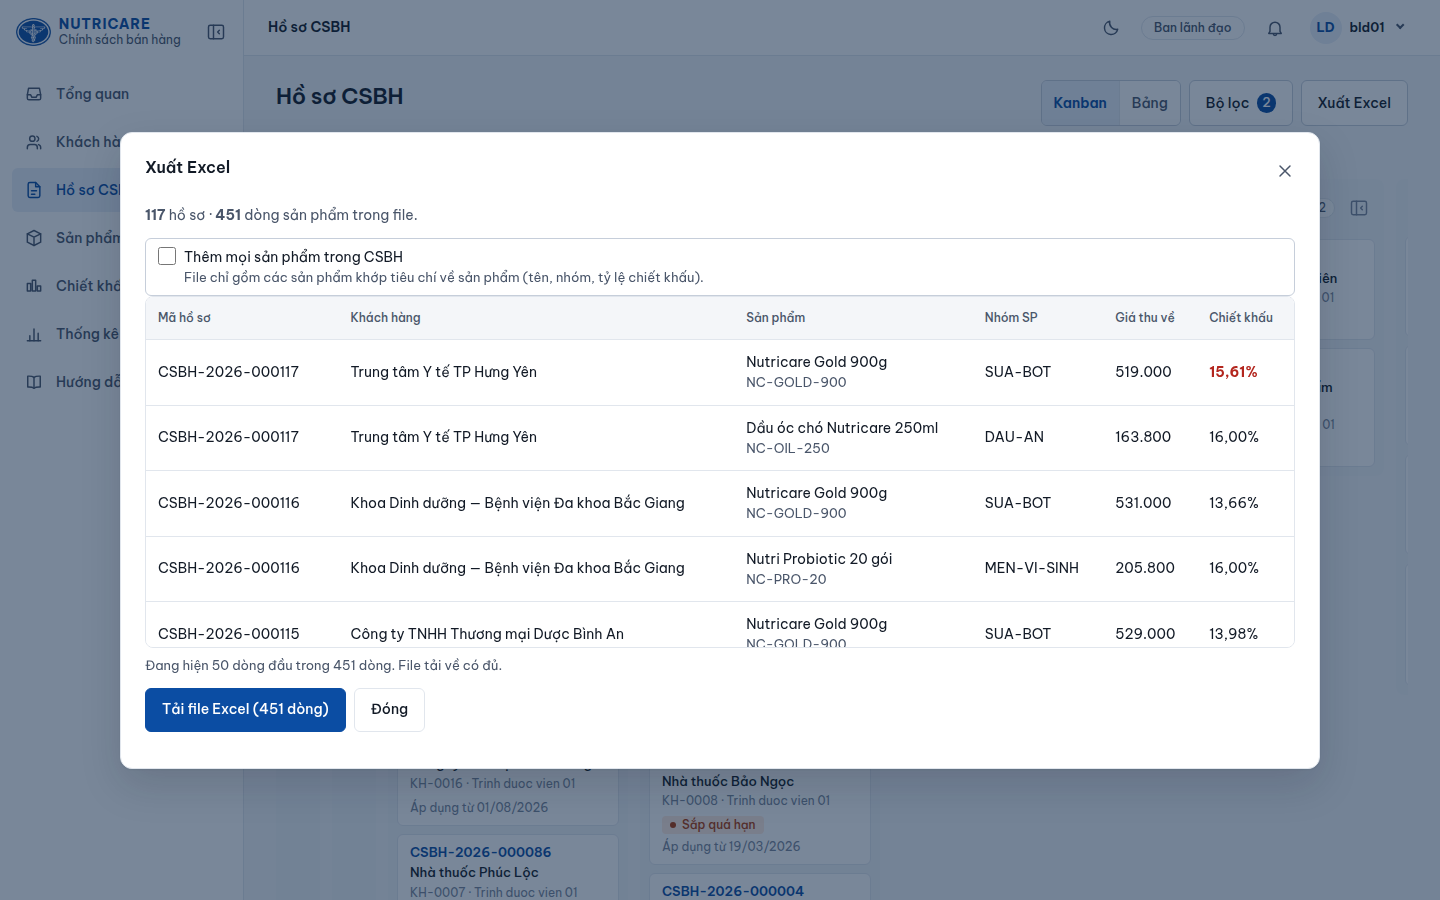
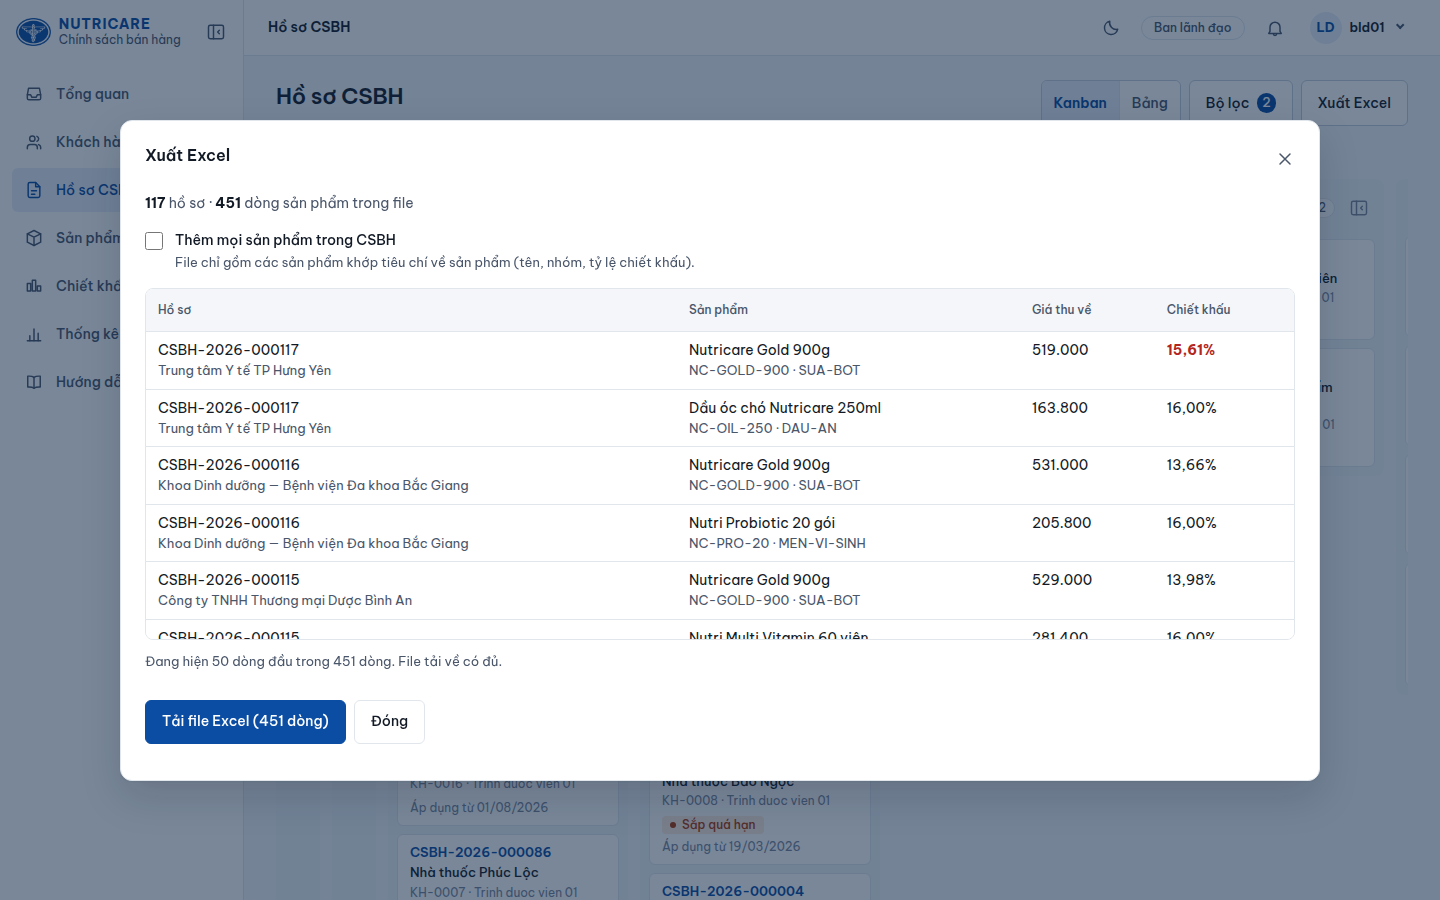
P326: soi lai hop xem truoc Excel theo skill thiet ke frontend (0285)

diff --git a/impl/apps/web/src/components/NutXuatExcel.tsx b/impl/apps/web/src/components/NutXuatExcel.tsx
@@ -195,79 +195,90 @@ function HopXemTruocXuat({
       {loiXem === null && xem === null && <DangTai nhan="Đang dựng bản xem trước…" />}
 
       {xem !== null && (
-        <>
-          <p className="mo-ta-trang" aria-live="polite">
-            <strong>{xem.soHoSo}</strong> hồ sơ · <strong>{xem.soDong}</strong> dòng sản phẩm trong file.
+        <div className="xuat-than">
+          <p className="xuat-tong" aria-live="polite">
+            <strong>{xem.soHoSo}</strong> hồ sơ · <strong>{xem.soDong}</strong> dòng sản phẩm trong file
           </p>
 
-          <label className="the-tich the-tich-rong">
-            <input
-              type="checkbox"
-              checked={tatCaHieuLuc}
-              disabled={!coTieuChiSanPham}
-              onChange={(e) => datTatCa(e.target.checked)}
-            />
-            <span>
-              Thêm mọi sản phẩm trong CSBH
-              <small className="ghi-chu">
-                {coTieuChiSanPham
-                  ? tatCaHieuLuc
-                    ? 'File gồm cả các sản phẩm không khớp tiêu chí của mỗi hồ sơ.'
-                    : 'File chỉ gồm các sản phẩm khớp tiêu chí về sản phẩm (tên, nhóm, tỷ lệ chiết khấu).'
-                  : 'Bộ lọc không có tiêu chí về sản phẩm nên file luôn gồm mọi sản phẩm của hồ sơ.'}
-              </small>
-            </span>
-          </label>
-
-          {quaTran && (
-            <p className="bao-loi" role="alert">
-              File sẽ có {xem.soDong} dòng, vượt trần {xem.tran} dòng. Hãy thu hẹp bộ lọc rồi xuất lại.
-            </p>
-          )}
-
           {rong ? (
-            <p className="ghi-chu">Không có hồ sơ nào khớp bộ lọc, nên chưa có gì để xuất.</p>
-          ) : (
-            <div className="khung-cuon bang-xuat-xem-truoc" role="region" aria-label="Bản xem trước file" tabIndex={0}>
-              <table className="bang">
-                <thead>
-                  <tr>
-                    <th>Mã hồ sơ</th>
-                    <th>Khách hàng</th>
-                    <th>Sản phẩm</th>
-                    <th>Nhóm SP</th>
-                    <th className="so">Giá thu về</th>
-                    <th className="so">Chiết khấu</th>
-                  </tr>
-                </thead>
-                <tbody>
-                  {xem.dong.map((d, i) => (
-                    <tr key={`${d.code}|${d.productCode ?? ''}|${i}`}>
-                      <td>{d.code}</td>
-                      <td>{d.customerName}</td>
-                      <td>
-                        {d.productName ?? '—'}
-                        {d.productCode && <div className="ghi-chu">{d.productCode}</div>}
-                      </td>
-                      <td>{d.groupCode ?? '—'}</td>
-                      <td className="so">{d.netPrice === null ? '—' : tien(d.netPrice)}</td>
-                      <td className="so">
-                        {d.discountRate === null ? (
-                          '—'
-                        ) : (
-                          <span className={`ty-le${d.overThreshold ? ' vuot' : ''}`}>{tyLe(d.discountRate)}</span>
-                        )}
-                      </td>
-                    </tr>
-                  ))}
-                </tbody>
-              </table>
+            <div className="xuat-rong" role="status">
+              <strong>Không có hồ sơ nào khớp bộ lọc</strong>
+              <span>Đóng hộp này, nới bộ lọc rồi xuất lại.</span>
             </div>
-          )}
-          {xem.daCat && (
-            <p className="ghi-chu">
-              Đang hiện {xem.dong.length} dòng đầu trong {xem.soDong} dòng. File tải về có đủ.
-            </p>
+          ) : (
+            <>
+              <label className="xuat-lua-chon">
+                <input
+                  type="checkbox"
+                  checked={tatCaHieuLuc}
+                  disabled={!coTieuChiSanPham}
+                  onChange={(e) => datTatCa(e.target.checked)}
+                />
+                <span>
+                  <span className="xuat-lua-chon-nhan">Thêm mọi sản phẩm trong CSBH</span>
+                  <small className="ghi-chu">
+                    {coTieuChiSanPham
+                      ? tatCaHieuLuc
+                        ? 'File gồm cả các sản phẩm không khớp tiêu chí của mỗi hồ sơ.'
+                        : 'File chỉ gồm các sản phẩm khớp tiêu chí về sản phẩm (tên, nhóm, tỷ lệ chiết khấu).'
+                      : 'Bộ lọc không có tiêu chí về sản phẩm nên file luôn gồm mọi sản phẩm của hồ sơ.'}
+                  </small>
+                </span>
+              </label>
+
+              {quaTran && (
+                <p className="bao-loi" role="alert">
+                  File sẽ có {xem.soDong} dòng, vượt trần {xem.tran} dòng. Hãy thu hẹp bộ lọc rồi xuất lại.
+                </p>
+              )}
+
+              {/*
+                Bốn cột, mỗi ô xếp CHỒNG hai tầng (chính · phụ), không mười cột phẳng như file Excel: bản xem
+                trước để NHÌN ra hình dạng file và kiểm tiêu chí vừa đặt, còn file mới đủ cột. Trên điện thoại
+                cột *Giá thu về* ẩn đi để cột *Chiết khấu* — thứ bộ lọc hỏi — luôn nằm trong khung.
+              */}
+              <div className="khung-cuon bang-xuat-xem-truoc" role="region" aria-label="Bản xem trước file" tabIndex={0}>
+                <table className="bang">
+                  <thead>
+                    <tr>
+                      <th>Hồ sơ</th>
+                      <th>Sản phẩm</th>
+                      <th className="so cot-phu">Giá thu về</th>
+                      <th className="so">Chiết khấu</th>
+                    </tr>
+                  </thead>
+                  <tbody>
+                    {xem.dong.map((d, i) => (
+                      <tr key={`${d.code}|${d.productCode ?? ''}|${i}`}>
+                        <td>
+                          <span className="xuat-chinh">{d.code}</span>
+                          <span className="xuat-phu">{d.customerName}</span>
+                        </td>
+                        <td>
+                          <span className="xuat-chinh">{d.productName ?? '—'}</span>
+                          {(d.productCode || d.groupCode) && (
+                            <span className="xuat-phu">{[d.productCode, d.groupCode].filter(Boolean).join(' · ')}</span>
+                          )}
+                        </td>
+                        <td className="so cot-phu">{d.netPrice === null ? '—' : tien(d.netPrice)}</td>
+                        <td className="so">
+                          {d.discountRate === null ? (
+                            '—'
+                          ) : (
+                            <span className={`ty-le${d.overThreshold ? ' vuot' : ''}`}>{tyLe(d.discountRate)}</span>
+                          )}
+                        </td>
+                      </tr>
+                    ))}
+                  </tbody>
+                </table>
+              </div>
+              {xem.daCat && (
+                <p className="ghi-chu">
+                  Đang hiện {xem.dong.length} dòng đầu trong {xem.soDong} dòng. File tải về có đủ.
+                </p>
+              )}
+            </>
           )}
 
           {viec?.status === 'LOI' && (
@@ -275,7 +286,7 @@ function HopXemTruocXuat({
               Dựng file hỏng. Bấm <strong>Tải file Excel</strong> để thử lại.
             </p>
           )}
-          <div className="nhom-nut">
+          <div className="nhom-nut xuat-chan">
             {viec?.status === 'XONG' && viec.downloadUrl ? (
               <button
                 type="button"
@@ -292,14 +303,14 @@ function HopXemTruocXuat({
                 disabled={dangChay || rong || quaTran}
                 onClick={() => void xuat()}
               >
-                {dangChay ? 'Đang dựng file…' : `Tải file Excel (${xem.soDong} dòng)`}
+                {dangChay ? 'Đang dựng file…' : rong ? 'Tải file Excel' : `Tải file Excel (${xem.soDong} dòng)`}
               </button>
             )}
             <button type="button" className="nut nut-nhe" onClick={dong}>
               Đóng
             </button>
           </div>
-        </>
+        </div>
       )}
     </HopThoai>
   );

diff --git a/impl/apps/web/src/styles/app.css b/impl/apps/web/src/styles/app.css
@@ -4949,10 +4949,35 @@ svg.bd-nho { width: 62px; margin: 0; }
 .o-phan-tram { position: relative; display: block; min-width: 0; }
 .o-phan-tram .o-nhap { padding-right: var(--k5); }
 .o-phan-tram > span { position: absolute; right: var(--k3); top: 50%; transform: translateY(-50%); color: var(--mau-chu-nhat); pointer-events: none; }
-.the-tich-rong { flex: none; width: 100%; align-items: flex-start; }
-.the-tich-rong small { display: block; }
 
-/* Bản xem trước file Excel (`0283`): bảng cuộn TRONG khung để nút *Tải file Excel* ở dưới luôn thấy được,
-   không bị đẩy khỏi màn hình bởi 50 dòng. Chiều cao theo khung nhìn, có trần. */
-.bang-xuat-xem-truoc { max-height: min(46dvh, 22rem); overflow: auto; margin-bottom: var(--k2); }
+/* Hộp xem trước file Excel (`0283`, làm lại ở `0285` sau khi soi ảnh thật ở ba khổ).
+   Một cột, khoảng cách bằng `gap` chứ không bằng lề từng khối. Bảng cuộn TRONG khung để nút *Tải file Excel*
+   ở chân luôn thấy được; ô tích không viền (nó là một lựa chọn, không phải một thẻ); ô trống là một khối
+   nói thẳng điều đã xảy ra thay vì một dòng chữ lọt thỏm dưới ô tích. */
+.xuat-than { display: grid; gap: var(--k3); min-width: 0; }
+.xuat-tong { margin: 0; color: var(--mau-chu-phu); }
+.xuat-tong strong { color: var(--mau-chu); font-variant-numeric: tabular-nums; }
+.xuat-lua-chon { display: flex; align-items: flex-start; gap: var(--k3); cursor: pointer; padding-block: var(--k1); }
+.xuat-lua-chon:has(input:disabled) { cursor: default; }
+.xuat-lua-chon input { width: 1.125rem; height: 1.125rem; margin: 0.15rem 0 0; flex: none; accent-color: var(--mau-thuong-hieu); }
+.xuat-lua-chon > span { display: grid; gap: 2px; min-width: 0; }
+.xuat-lua-chon-nhan { font-weight: 500; color: var(--mau-chu); }
+.xuat-rong { display: grid; gap: var(--k1); justify-items: center; text-align: center; padding: var(--k5) var(--k4); border: 1px dashed var(--mau-vien-dam); border-radius: var(--bo-goc); color: var(--mau-chu-phu); }
+.xuat-rong strong { color: var(--mau-chu); }
+.bang-xuat-xem-truoc { max-height: min(46dvh, 22rem); overflow: auto; }
 .bang-xuat-xem-truoc thead th { position: sticky; top: 0; z-index: 1; background: var(--mau-nen-phu); }
+.bang-xuat-xem-truoc td { padding-block: var(--k2); vertical-align: top; white-space: normal; }
+/* Số vẫn nguyên một dòng (`white-space: nowrap` của `td` bị gỡ ở trên cho tên dài xuống dòng). */
+.bang-xuat-xem-truoc td.so { white-space: nowrap; }
+.xuat-chinh, .xuat-phu { display: block; }
+.xuat-phu { color: var(--mau-chu-phu); font-size: var(--chu-nho); overflow-wrap: anywhere; }
+.xuat-chan { margin-top: var(--k1); }
+/* Mã hồ sơ nguyên một dòng (bẻ ở dấu gạch ngang thì không còn đọc ra mã); cột *Chiết khấu* — thứ bộ lọc hỏi —
+   luôn trong khung nhờ ẩn *Giá thu về*, các dòng phụ (tên khách, mã sản phẩm, nhóm) và thu lề ô — file Excel vẫn đủ. */
+.bang-xuat-xem-truoc td:first-child .xuat-chinh { white-space: nowrap; }
+@media (max-width: 640px) {
+  .bang-xuat-xem-truoc .cot-phu, .bang-xuat-xem-truoc .xuat-phu { display: none; }
+  .bang-xuat-xem-truoc { font-size: var(--chu-nho); }
+  .bang-xuat-xem-truoc th { white-space: normal; }
+  .bang-xuat-xem-truoc th, .bang-xuat-xem-truoc td { padding-inline: var(--k2); }
+}

diff --git a/impl/tests/web/bo-loc-ho-so.test.tsx b/impl/tests/web/bo-loc-ho-so.test.tsx
@@ -414,6 +414,29 @@ describe('`0077`/`0283` xuất Excel: xem trước rồi mới tải', () => {
     expect((screen.getByRole('button', { name: /Tải file Excel/ }) as HTMLButtonElement).disabled).toBe(true);
   });
 
+  it('trống: KHÔNG bày ô tích (không có gì để chọn), nói thẳng điều đã xảy ra, nút tải khoá', async () => {
+    chan({ ...XEM, soHoSo: 0, soDong: 0, dong: [] });
+    await moHop({ productGroupCode: 'SUA' });
+    expect(screen.queryByRole('checkbox')).toBeNull();
+    expect(screen.getByRole('status').textContent).toMatch(/Không có hồ sơ nào khớp bộ lọc/);
+    expect((screen.getByRole('button', { name: 'Tải file Excel' }) as HTMLButtonElement).disabled).toBe(true);
+  });
+
+  it('bảng xem trước có bốn cột và cuộn TRONG khung; điện thoại ẩn cột phụ để cột Chiết khấu luôn trong khung (`0285`)', async () => {
+    chan();
+    await moHop({ discountFrom: '20' });
+    const th = [...document.querySelectorAll('.bang-xuat-xem-truoc th')].map((x) => x.textContent);
+    expect(th).toEqual(['Hồ sơ', 'Sản phẩm', 'Giá thu về', 'Chiết khấu']);
+    // Hai dòng chữ trong một ô: tên khách ở cột Hồ sơ, mã + nhóm ở cột Sản phẩm — không mười cột phẳng.
+    expect(screen.getAllByText('Nhà thuốc A')).toHaveLength(2); // hai dòng sản phẩm của cùng một hồ sơ
+    expect(screen.getByText('SP-1 · SUA')).toBeDefined();
+
+    const css = readFileSync('apps/web/src/styles/app.css', 'utf8').replace(/\/\*[\s\S]*?\*\//g, '');
+    expect(css).toMatch(/\.bang-xuat-xem-truoc\s*\{[^}]*max-height:\s*min\(46dvh/);
+    // Ẩn cột phụ ở điện thoại: nếu không, cột *Chiết khấu* nằm ngoài khung ở 390px (đo trên Chrome thật).
+    expect(css).toMatch(/@media \(max-width: 640px\)\s*\{[^@]*\.bang-xuat-xem-truoc \.cot-phu[^{]*\{\s*display:\s*none/);
+  });
+
   it('bản xem trước hỏng thì có nút Thử lại, không treo ở "đang dựng"', async () => {
     vi.stubGlobal('fetch', vi.fn(() => Promise.resolve(new Response(JSON.stringify({ code: 'INTERNAL' }), { status: 500, headers: { 'content-type': 'application/json' } }))));
     const nguoi = userEvent.setup();

diff --git a/agents/NHAT-KY-TRIEN-KHAI.md b/agents/NHAT-KY-TRIEN-KHAI.md
@@ -22674,3 +22674,16 @@ Sửa theo cơ chế gợi ý chung: ô nhập và danh sách chung MỘT khung 
 Cùng lượt: bỏ dòng *"Có ít nhất một sản phẩm trong khoảng này"* dưới ô *Tỷ lệ chiết khấu* (người dùng yêu cầu); **bản xem trước Excel** thu còn sáu cột (Mã hồ sơ · Khách hàng · Sản phẩm kèm mã · Nhóm SP · Giá thu về · Chiết khấu) và bảng cuộn TRONG khung (`max-height: min(46dvh, 22rem)`, tiêu đề dính) — bản đầu có mười cột, cột chiết khấu nằm ngoài màn hình và nút *Tải file Excel* bị đẩy khỏi khung nhìn, đúng điều yêu cầu đặt ra (*nút nằm dưới bảng*). Lớp `.khung-xem-xuat` bị ca quét `.khung-xem` của `0073` bắt vì trùng TIỀN TỐ → đổi tên `.bang-xuat-xem-truoc`. **Ảnh *Hướng dẫn***: bốn ảnh `xuat-excel-xem-truoc.png` (Trưởng bộ phận · Kế toán · Sale Admin · Ban lãnh đạo) gắn vào bước *Lọc và xuất Excel*, mỗi vai trò một tệp vì ca quét cấm một ảnh nhắc hai lần.
 
 **1243/1243 ca giao diện xanh.**
+
+
+## P326 — `0285` Soi lại hộp xem trước Excel theo `agents/professional-frontend-design-skill.md` — CHỈ FRONTEND
+
+Chạy vòng QA thị giác của skill (§7) trên demo thật: Chrome không giao diện, ảnh ở 1440×900 · 768×1024 · 390×844 và các trạng thái mặc định · đã tích · trống · đang dựng · đã dựng xong · Esc đóng. **Sáu lỗi nhìn ra từ ảnh, không đọc được từ mã:** (1) điện thoại: cột *Chiết khấu* — thứ bộ lọc hỏi — nằm NGOÀI khung, chỉ thấy hai cột đầu; (2) bảng mười cột phẳng, mỗi dòng cao 65px nên chỉ thấy năm dòng; (3) ô tích bọc một thẻ có viền, dính sát bảng (không có khoảng cách); (4) trạng thái trống: một dòng chữ lọt thỏm dưới ô tích, nút *Tải file Excel (0 dòng)* đọc kỳ; (5) `td { white-space: nowrap }` toàn cục khiến bảng tràn ngang ở 390px dù đã bỏ cột; (6) tiêu đề *Chiết khấu* nowrap vẫn tràn thêm 15px.
+
+Làm lại: một cột `gap` thay cho lề từng khối; **bốn cột, mỗi ô hai tầng** (Hồ sơ = mã + tên khách; Sản phẩm = tên + mã · nhóm; Giá thu về; Chiết khấu) — bản xem trước để NHÌN ra hình dạng file và kiểm tiêu chí vừa đặt, file mới đủ cột; ô tích không viền; trạng thái trống là một khối nét đứt nói thẳng điều đã xảy ra, **ẩn ô tích** (không có gì để chọn) và nút đọc *Tải file Excel*; hàng dày 8px; bảng cuộn trong khung (`max-height: min(46dvh, 22rem)`, tiêu đề dính). Điện thoại (≤640px): ẩn cột *Giá thu về* và các dòng phụ, chữ nhỏ, lề ô thu, tiêu đề được xuống dòng, mã hồ sơ giữ một dòng — đo lại: bảng **không còn cuộn ngang** ở 390px và nút tải luôn trong khung ở cả ba khổ. Số trong bảng vẫn căn TRÁI (`0057` — chủ ý của khách hàng, không phải lỗi).
+
+Ca kiểm mới: trống không có ô tích; bảng bốn cột kèm hai dòng chữ trong ô; quét CSS (trần chiều cao + luật ẩn cột phụ ở điện thoại). Bốn ảnh *Hướng dẫn* chụp lại theo thiết kế mới.
+
+**Không kiểm:** giao diện tối (nút đổi giao diện không đổi được trong Chrome không giao diện — không khẳng định gì về nó); trạng thái vượt trần 20.000 dòng (kiểm bằng ca đơn vị, chưa có ảnh thật); trình đọc màn hình.
+
+**1245/1245 ca giao diện xanh.**
